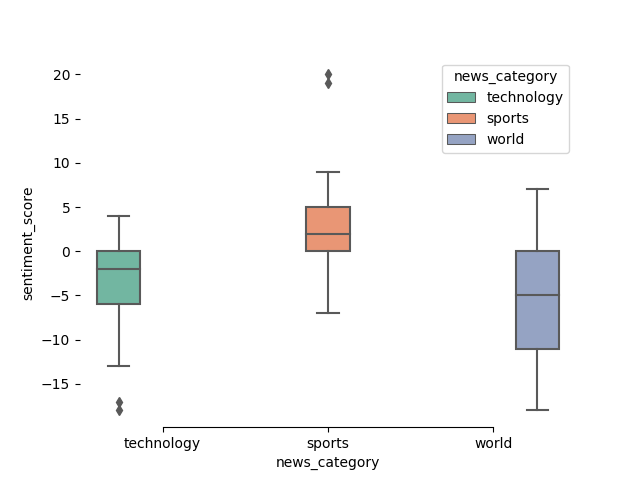
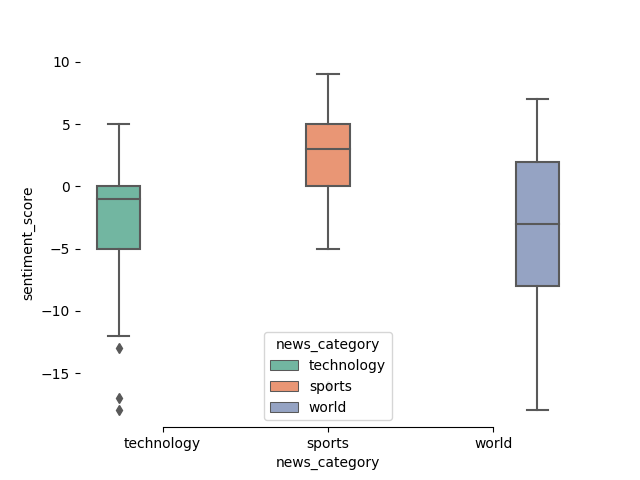
refactoring

diff --git a/inshorts/entities.html b/inshorts/entities.html
@@ -12,25 +12,25 @@
       <th>0</th>
       <td>india</td>
       <td>GPE</td>
-      <td>31</td>
+      <td>24</td>
     </tr>
     <tr>
       <th>1</th>
       <td>pakistan</td>
       <td>GPE</td>
-      <td>20</td>
+      <td>14</td>
     </tr>
     <tr>
       <th>2</th>
-      <td>first</td>
-      <td>ORDINAL</td>
-      <td>12</td>
+      <td>year</td>
+      <td>DATE</td>
+      <td>10</td>
     </tr>
     <tr>
       <th>3</th>
-      <td>year</td>
-      <td>DATE</td>
-      <td>9</td>
+      <td>first</td>
+      <td>ORDINAL</td>
+      <td>10</td>
     </tr>
     <tr>
       <th>...</th>
@@ -39,27 +39,27 @@
       <td>...</td>
     </tr>
     <tr>
-      <th>83</th>
-      <td>korea</td>
-      <td>GPE</td>
-      <td>1</td>
-    </tr>
-    <tr>
-      <th>84</th>
-      <td>kim</td>
-      <td>PERSON</td>
-      <td>1</td>
-    </tr>
-    <tr>
       <th>85</th>
-      <td>july</td>
-      <td>DATE</td>
+      <td>million nearly crore</td>
+      <td>CARDINAL</td>
       <td>1</td>
     </tr>
     <tr>
       <th>86</th>
-      <td>afghanistan</td>
-      <td>GPE</td>
+      <td>million</td>
+      <td>CARDINAL</td>
+      <td>1</td>
+    </tr>
+    <tr>
+      <th>87</th>
+      <td>mike pompeo</td>
+      <td>PERSON</td>
+      <td>1</td>
+    </tr>
+    <tr>
+      <th>88</th>
+      <td>al</td>
+      <td>PERSON</td>
       <td>1</td>
     </tr>
   </tbody>

diff --git a/inshorts/initial_dataframe.html b/inshorts/initial_dataframe.html
@@ -10,14 +10,14 @@
   <tbody>
     <tr>
       <th>0</th>
-      <td>End $479 mn US Army contract: Microsoft employ...</td>
-      <td>Over 100 Microsoft workers have written to CEO...</td>
+      <td>BJP MP-led panel summons officials of Facebook...</td>
+      <td>The Parliamentary Committee on Information Tec...</td>
       <td>technology</td>
     </tr>
     <tr>
       <th>1</th>
-      <td>PETA criticises Google Doodle on Steve Irwin, ...</td>
-      <td>Animal rights organisation PETA faced heavy ba...</td>
+      <td>We are very aware of iPhone pricing concerns: ...</td>
+      <td>Apple COO Jeff Williams, who was speaking at A...</td>
       <td>technology</td>
     </tr>
     <tr>
@@ -28,14 +28,14 @@
     </tr>
     <tr>
       <th>73</th>
-      <td>US judge to scale Statue of Liberty before sen...</td>
-      <td>A US judge overseeing the case against a woman...</td>
+      <td>Saudi Arabia looking to make India regional hu...</td>
+      <td>Saudi Arabia Foreign Minister Adel bin Ahmed A...</td>
       <td>world</td>
     </tr>
     <tr>
       <th>74</th>
-      <td>Saudi Arabia looking to make India regional hu...</td>
-      <td>Saudi Arabia Foreign Minister Adel bin Ahmed A...</td>
+      <td>Trump calls on OPEC to 'relax,' says oil price...</td>
+      <td>US President Donald Trump on Monday expressed ...</td>
       <td>world</td>
     </tr>
   </tbody>

diff --git a/inshorts/POS_tagged_text.html b/inshorts/POS_tagged_text.html
@@ -9,13 +9,13 @@
   <tbody>
     <tr>
       <th>0</th>
-      <td>end mn us army contract microsoft employee ceo...</td>
-      <td>[(end, VB, VERB), (mn, IN, ADP), (us, PRP, PRO...</td>
+      <td>bjp mp lead panel summon official facebook wha...</td>
+      <td>[(bjp, NNP, PROPN), (mp, NNP, PROPN), (lead, N...</td>
     </tr>
     <tr>
       <th>1</th>
-      <td>peta criticise google doodle steve irwin face ...</td>
-      <td>[(peta, NNP, PROPN), (criticise, VB, VERB), (g...</td>
+      <td>aware iphone pricing concern apple coo apple c...</td>
+      <td>[(aware, JJ, ADJ), (iphone, NN, NOUN), (pricin...</td>
     </tr>
     <tr>
       <th>...</th>
@@ -24,13 +24,13 @@
     </tr>
     <tr>
       <th>73</th>
-      <td>us judge scale statue liberty sentencing prote...</td>
-      <td>[(us, PRP, PRON), (judge, VBP, VERB), (scale, ...</td>
+      <td>saudi arabia look make india regional hub oil ...</td>
+      <td>[(saudi, JJ, ADJ), (arabia, NNS, NOUN), (look,...</td>
     </tr>
     <tr>
       <th>74</th>
-      <td>saudi arabia look make india regional hub oil ...</td>
-      <td>[(saudi, JJ, ADJ), (arabia, NNS, NOUN), (look,...</td>
+      <td>trump call opec relax say oil price high us pr...</td>
+      <td>[(trump, NN, NOUN), (call, NN, NOUN), (opec, N...</td>
     </tr>
   </tbody>
 </table>

diff --git a/inshorts/chunked_tagged_text.html b/inshorts/chunked_tagged_text.html
@@ -9,13 +9,13 @@
   <tbody>
     <tr>
       <th>0</th>
-      <td>end mn us army contract microsoft employee ceo...</td>
-      <td>end mn us army contract microsoft employee ceo...</td>
+      <td>bjp mp lead panel summon official facebook wha...</td>
+      <td>bjp mp lead panel summon official facebook wha...</td>
     </tr>
     <tr>
       <th>1</th>
-      <td>peta criticise google doodle steve irwin face ...</td>
-      <td>peta criticise google doodle steve irwin face ...</td>
+      <td>aware iphone pricing concern apple coo apple c...</td>
+      <td>aware iphone pricing concern apple coo apple c...</td>
     </tr>
     <tr>
       <th>...</th>
@@ -24,13 +24,13 @@
     </tr>
     <tr>
       <th>73</th>
-      <td>us judge scale statue liberty sentencing prote...</td>
-      <td>us judge scale statue liberty sentencing prote...</td>
+      <td>saudi arabia look make india regional hub oil ...</td>
+      <td>saudi arabia look make india regional hub oil ...</td>
     </tr>
     <tr>
       <th>74</th>
-      <td>saudi arabia look make india regional hub oil ...</td>
-      <td>saudi arabia look make india regional hub oil ...</td>
+      <td>trump call opec relax say oil price high us pr...</td>
+      <td>trump call opec relax say oil price high us pr...</td>
     </tr>
   </tbody>
 </table>

diff --git a/inshorts/con_tagged_text.html b/inshorts/con_tagged_text.html
@@ -9,13 +9,13 @@
   <tbody>
     <tr>
       <th>0</th>
-      <td>end mn us army contract microsoft employee ceo...</td>
-      <td>end mn us army contract microsoft employee ceo...</td>
+      <td>bjp mp lead panel summon official facebook wha...</td>
+      <td>bjp mp lead panel summon official facebook wha...</td>
     </tr>
     <tr>
       <th>1</th>
-      <td>peta criticise google doodle steve irwin face ...</td>
-      <td>peta criticise google doodle steve irwin face ...</td>
+      <td>aware iphone pricing concern apple coo apple c...</td>
+      <td>aware iphone pricing concern apple coo apple c...</td>
     </tr>
     <tr>
       <th>...</th>
@@ -24,13 +24,13 @@
     </tr>
     <tr>
       <th>73</th>
-      <td>us judge scale statue liberty sentencing prote...</td>
-      <td>us judge scale statue liberty sentencing prote...</td>
+      <td>saudi arabia look make india regional hub oil ...</td>
+      <td>saudi arabia look make india regional hub oil ...</td>
     </tr>
     <tr>
       <th>74</th>
-      <td>saudi arabia look make india regional hub oil ...</td>
-      <td>saudi arabia look make india regional hub oil ...</td>
+      <td>trump call opec relax say oil price high us pr...</td>
+      <td>trump call opec relax say oil price high us pr...</td>
     </tr>
   </tbody>
 </table>

diff --git a/inshorts/dep_tagged_text.html b/inshorts/dep_tagged_text.html
@@ -9,13 +9,13 @@
   <tbody>
     <tr>
       <th>0</th>
-      <td>end mn us army contract microsoft employee ceo...</td>
-      <td>end mn us army contract microsoft employee ceo...</td>
+      <td>bjp mp lead panel summon official facebook wha...</td>
+      <td>bjp mp lead panel summon official facebook wha...</td>
     </tr>
     <tr>
       <th>1</th>
-      <td>peta criticise google doodle steve irwin face ...</td>
-      <td>peta criticise google doodle steve irwin face ...</td>
+      <td>aware iphone pricing concern apple coo apple c...</td>
+      <td>aware iphone pricing concern apple coo apple c...</td>
     </tr>
     <tr>
       <th>...</th>
@@ -24,13 +24,13 @@
     </tr>
     <tr>
       <th>73</th>
-      <td>us judge scale statue liberty sentencing prote...</td>
-      <td>us judge scale statue liberty sentencing prote...</td>
+      <td>saudi arabia look make india regional hub oil ...</td>
+      <td>saudi arabia look make india regional hub oil ...</td>
     </tr>
     <tr>
       <th>74</th>
-      <td>saudi arabia look make india regional hub oil ...</td>
-      <td>saudi arabia look make india regional hub oil ...</td>
+      <td>trump call opec relax say oil price high us pr...</td>
+      <td>trump call opec relax say oil price high us pr...</td>
     </tr>
   </tbody>
 </table>

diff --git a/inshorts/normalized_text.html b/inshorts/normalized_text.html
@@ -9,13 +9,13 @@
   <tbody>
     <tr>
       <th>0</th>
-      <td>End $479 mn US Army contract: Microsoft employ...</td>
-      <td>end mn us army contract microsoft employee ceo...</td>
+      <td>BJP MP-led panel summons officials of Facebook...</td>
+      <td>bjp mp lead panel summon official facebook wha...</td>
     </tr>
     <tr>
       <th>1</th>
-      <td>PETA criticises Google Doodle on Steve Irwin, ...</td>
-      <td>peta criticise google doodle steve irwin face ...</td>
+      <td>We are very aware of iPhone pricing concerns: ...</td>
+      <td>aware iphone pricing concern apple coo apple c...</td>
     </tr>
     <tr>
       <th>...</th>
@@ -24,13 +24,13 @@
     </tr>
     <tr>
       <th>73</th>
-      <td>US judge to scale Statue of Liberty before sen...</td>
-      <td>us judge scale statue liberty sentencing prote...</td>
+      <td>Saudi Arabia looking to make India regional hu...</td>
+      <td>saudi arabia look make india regional hub oil ...</td>
     </tr>
     <tr>
       <th>74</th>
-      <td>Saudi Arabia looking to make India regional hu...</td>
-      <td>saudi arabia look make india regional hub oil ...</td>
+      <td>Trump calls on OPEC to 'relax,' says oil price...</td>
+      <td>trump call opec relax say oil price high us pr...</td>
     </tr>
   </tbody>
 </table>

diff --git a/inshorts/sentiment.html b/inshorts/sentiment.html
@@ -11,17 +11,17 @@
   <tbody>
     <tr>
       <th>0</th>
-      <td>End $479 mn US Army contract: Microsoft employ...</td>
+      <td>BJP MP-led panel summons officials of Facebook...</td>
       <td>technology</td>
-      <td>-3.0</td>
-      <td>negative</td>
+      <td>0.0</td>
+      <td>neutral</td>
     </tr>
     <tr>
       <th>1</th>
-      <td>PETA criticises Google Doodle on Steve Irwin, ...</td>
+      <td>We are very aware of iPhone pricing concerns: ...</td>
       <td>technology</td>
-      <td>-12.0</td>
-      <td>negative</td>
+      <td>0.0</td>
+      <td>neutral</td>
     </tr>
     <tr>
       <th>...</th>
@@ -32,16 +32,16 @@
     </tr>
     <tr>
       <th>73</th>
-      <td>US judge to scale Statue of Liberty before sen...</td>
-      <td>world</td>
-      <td>-3.0</td>
-      <td>negative</td>
-    </tr>
-    <tr>
-      <th>74</th>
       <td>Saudi Arabia looking to make India regional hu...</td>
       <td>world</td>
       <td>5.0</td>
+      <td>positive</td>
+    </tr>
+    <tr>
+      <th>74</th>
+      <td>Trump calls on OPEC to 'relax,' says oil price...</td>
+      <td>world</td>
+      <td>2.0</td>
       <td>positive</td>
     </tr>
   </tbody>

diff --git a/inshorts/inshorts.py b/inshorts/inshorts.py
@@ -1,6 +1,7 @@
 import os
 import matplotlib.pyplot as plt
 import seaborn as sns
+import pandas as pd
 import get_news
 import entity_recognition
 
@@ -29,11 +30,11 @@ def main():
     ordered_entity_df = entity_recognition.identify_named_entities(news_df['normalized_text'])
     ordered_entity_df.to_html('entities.html', columns=['Name', 'Type', 'Count'], max_rows=8)
 
-    # NEED TO FIX BOXPLOT
+    sent_df = news_df[['news_category', 'sentiment_score', 'sentiment_category']]
+    sent_df.groupby(by=['news_category'])
     sns.boxplot(
         x='news_category', y='sentiment_score', hue='news_category',
-        data=news_df['news_headline', 'news_article', 'news_category', 'sent_scores'],
-        palette='Set2')
+        data=sent_df, palette='Set2')
     sns.despine(trim=True, left=True)
     plt.savefig('Sentiment_Histogram.png')
 

diff --git a/inshorts/get_news.py b/inshorts/get_news.py
@@ -47,6 +47,7 @@ def build_dataframe(seed_urls):
     news_df['dep_tagged_text'] = tag_text.dep_tag_text(news_df['normalized_text'])
     # calculate sentiment
     news_df['sentiment_score'] = sentiment.sent_score(news_df['normalized_text'])
+    news_df['sentiment_score'] = news_df.sentiment_score.astype('float')
     # assign sentiment category
     news_df['sentiment_category'] = sentiment.sent_category(news_df['sentiment_score'])
     return news_df

diff --git a/inshorts/chunk_text.py b/inshorts/chunk_text.py
@@ -39,5 +39,7 @@ class NGramTagChunker(ChunkParserI):
 
 
 # train chunker model
-training_data = conll2000.chunked_sents()
-ntc = NGramTagChunker(training_data)
+def train_chunker():
+    training_data = conll2000.chunked_sents()
+    ntc = NGramTagChunker(training_data)
+    return ntc
